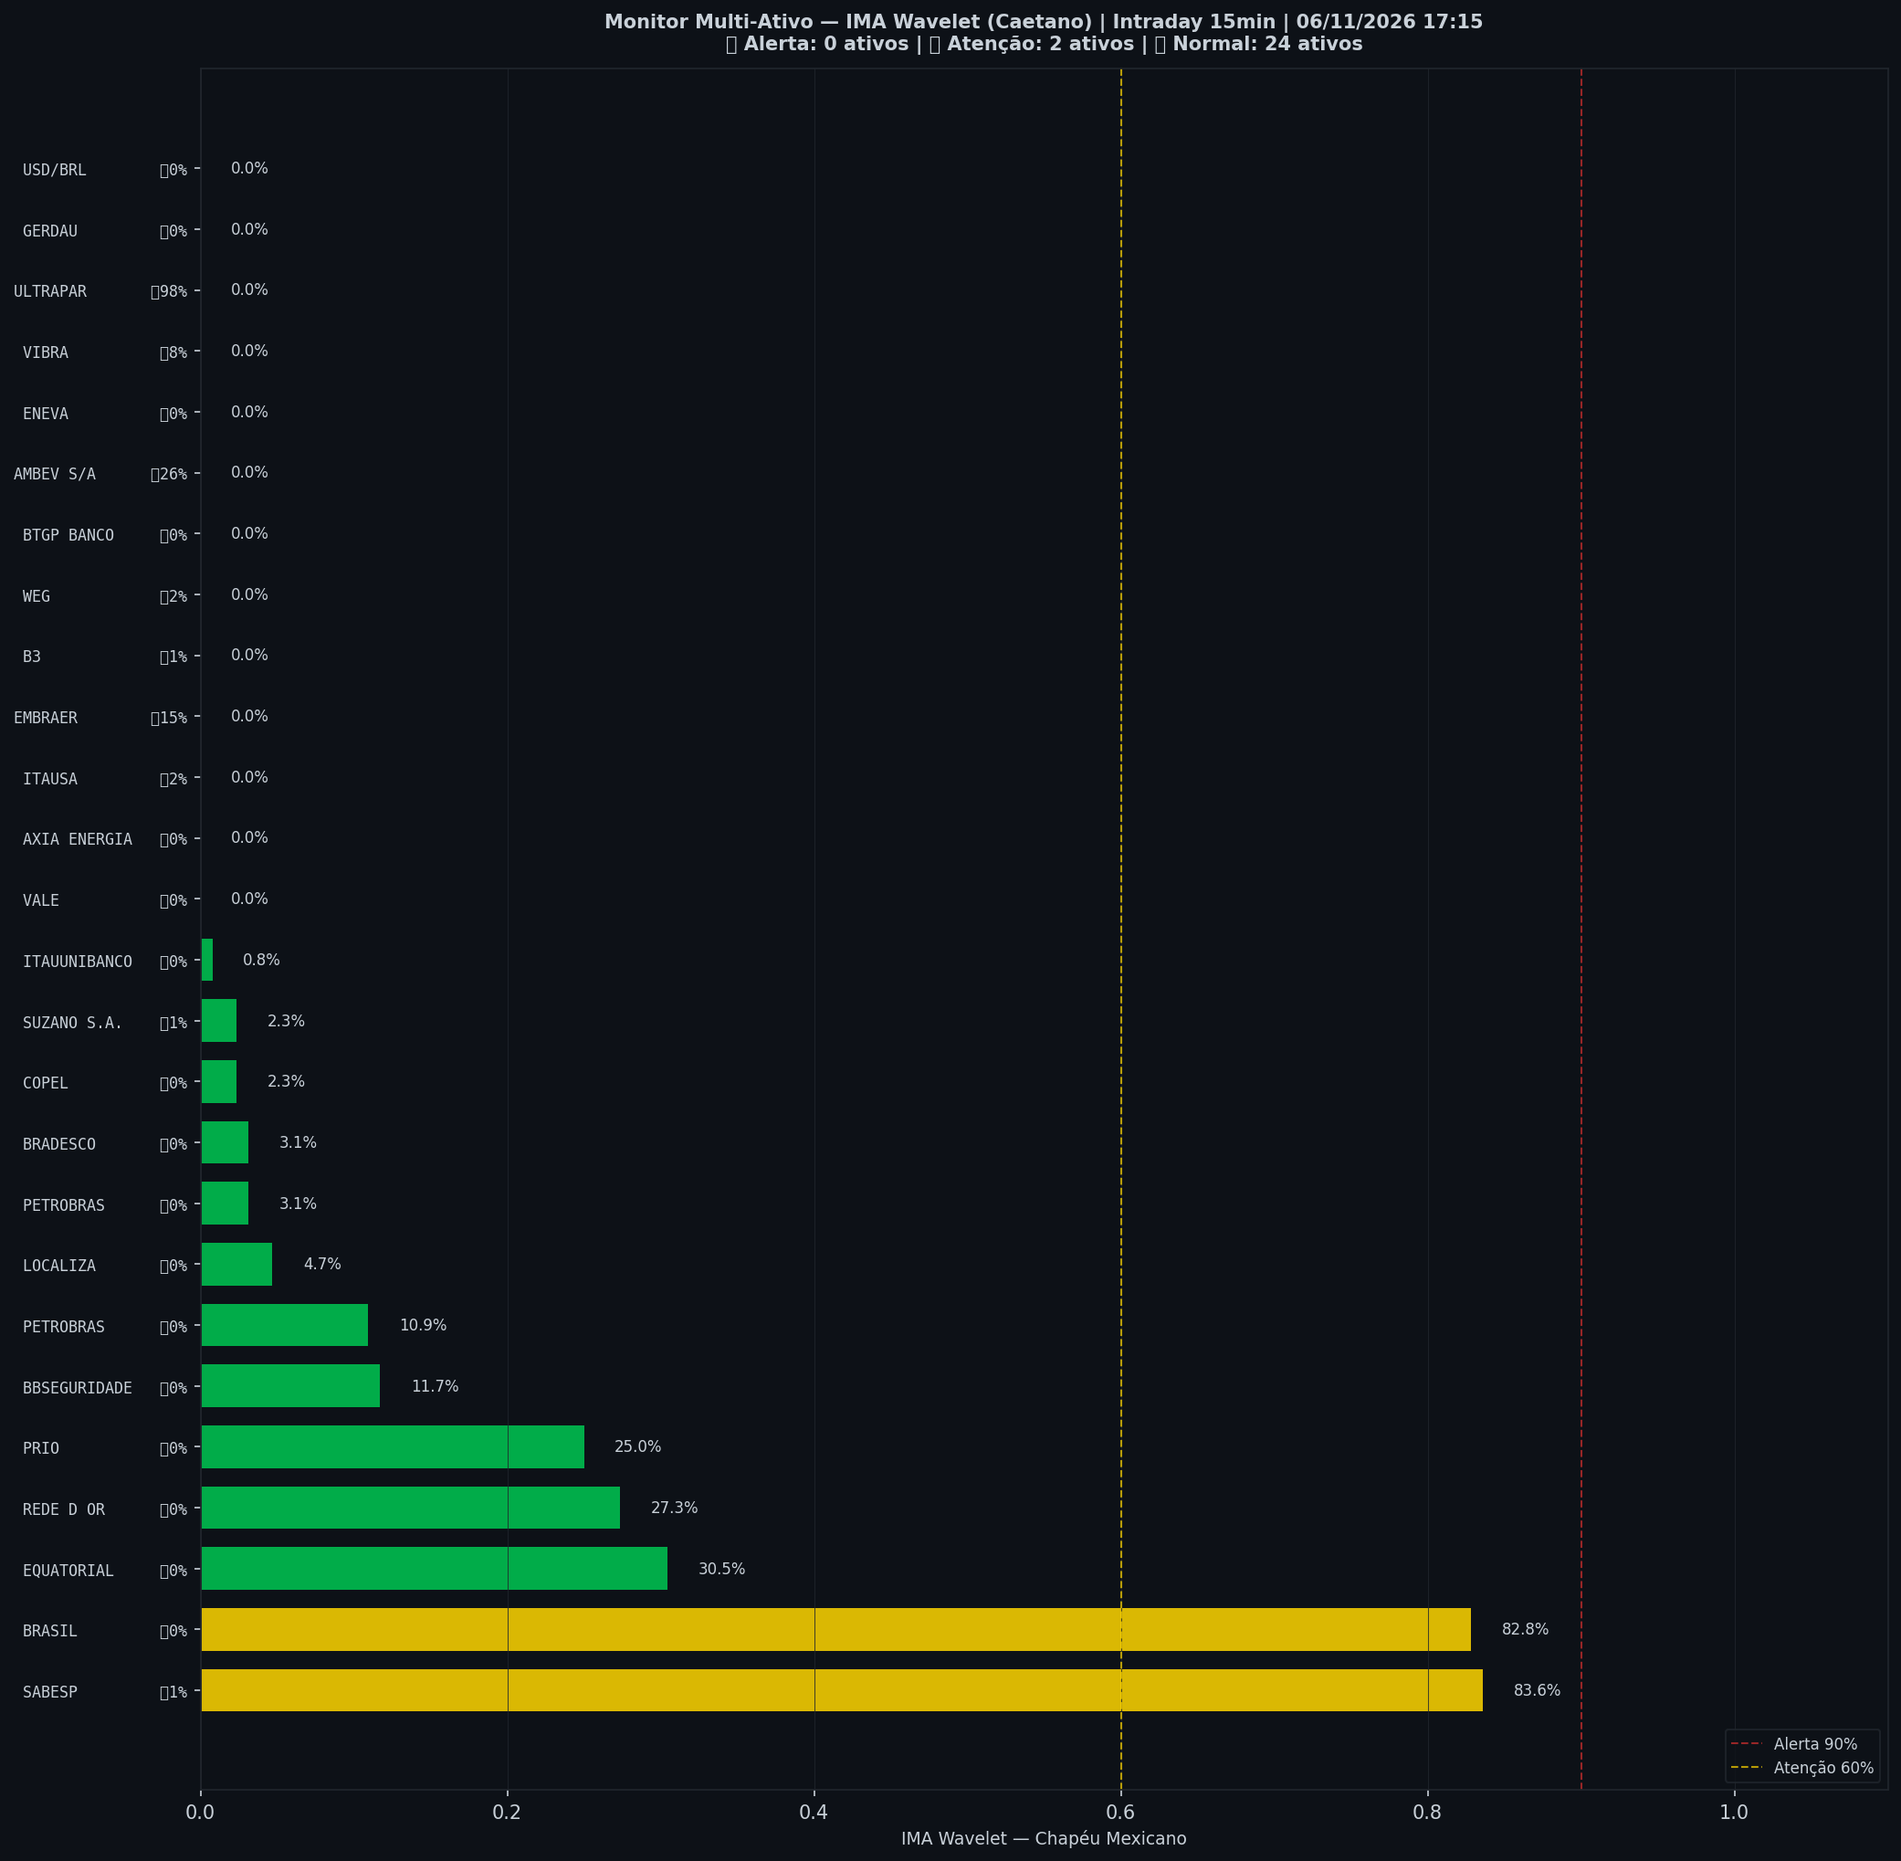
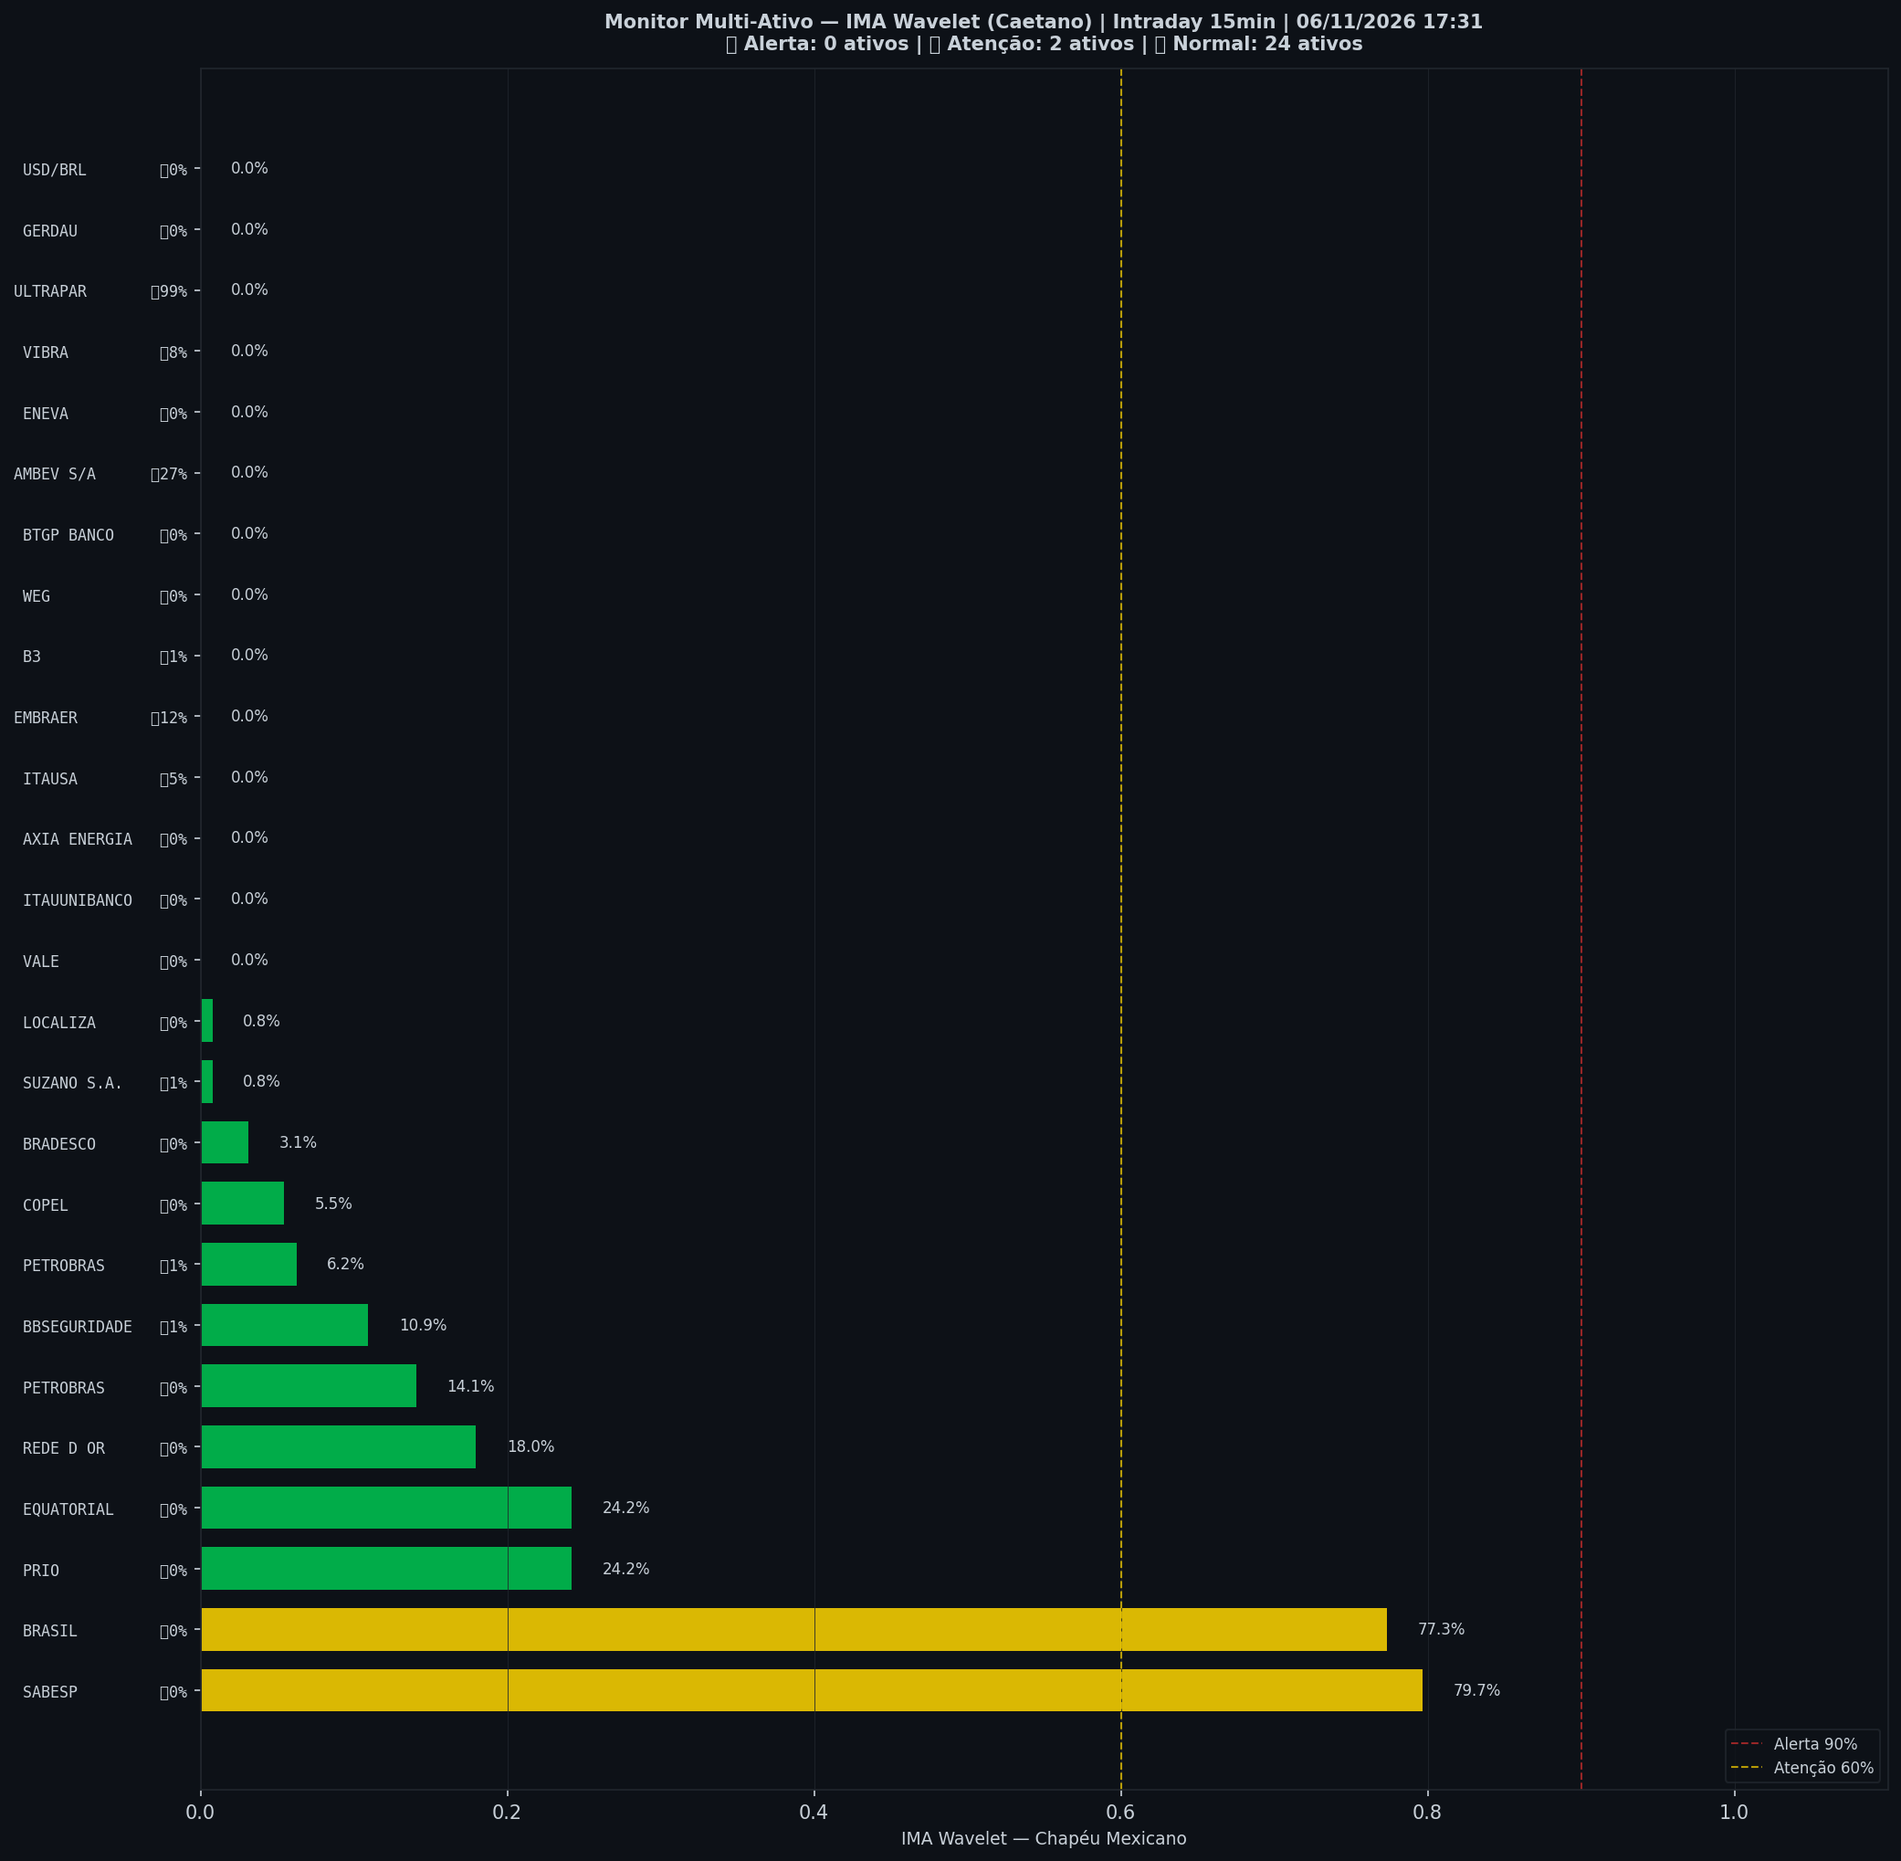
🤖 Auto: Sinal 06/11/2026 17:31

diff --git a/content/intraday/2026-11-06.md b/content/intraday/2026-11-06.md
@@ -1,10 +1,10 @@
 ---
-title: "🟢 Intraday 06/11/2026 17:00 BRT — VERDE"
+title: "🟢 Intraday 06/11/2026 17:15 BRT — VERDE"
 date: 2026-11-06
 tags: [intraday]
 ---
 
-> [!success] Onde o mercado está agora (06/11 17:00, candles de 15 min): **🟢 Calmo**
+> [!success] Onde o mercado está agora (06/11 17:15, candles de 15 min): **🟢 Calmo**
 > `Pânico ◀──────────●──────────▶ Euforia`
 >
 > O Ibovespa está dentro da sua faixa normal, sem excesso para cima nem para baixo.
@@ -20,8 +20,8 @@ tags: [intraday]
 > | 📍 **Sinais** | hoje: nenhum sinal | [abrir](sinais-topo-fundo/) |
 > | 🧪 **Placar ao vivo** | 1 operação(ões), 0 com lucro, soma -0,8% | [abrir](operacoes/) |
 
-> [!success] IMA Intraday · 15 min (06/11 17:00): 🟢 **VERDE** — Risco 2% · ▼ -4 p.p. vs leitura anterior
-> `░░░░░░░░░░░░░░░░░░░░`
+> [!success] IMA Intraday · 15 min (06/11 17:15): 🟢 **VERDE** — Risco 3% · ▲ +1 p.p. vs leitura anterior
+> `█░░░░░░░░░░░░░░░░░░░`
 > Preço na faixa normal em torno da tendência.
 
 
@@ -32,13 +32,13 @@ tags: [intraday]
 >
 > *Leitura educacional baseada em 26 anos de dados, não recomendação. [Como usar](../metodologia/crise#3-como-usar-na-prática).*
 
-| Indicador — IMA Intraday · 15 min (06/11 17:00) | Valor |
+| Indicador — IMA Intraday · 15 min (06/11 17:15) | Valor |
 |---|---|
-| 🔴 ζ Topo — preço esticado acima da tendência | **2%** |
+| 🔴 ζ Topo — preço esticado acima da tendência | **3%** |
 | 🔵 ζ Fundo — preço esticado abaixo da tendência | 0% |
 | 🫧 LPPL bolha — alta super-exponencial (risco de crash) | 0% |
 | 🫧 LPPL antibolha — queda super-exponencial (risco de repique) | 0% |
-| 📊 Ibovespa | 168.434 pts |
+| 📊 Ibovespa | 168.351 pts |
 
 ![Gráfico do sinal](../graficos/sinal_intraday.png)
 
@@ -46,6 +46,7 @@ tags: [intraday]
 
 | Data | Zona | Evento | Risco | ζ Topo | ζ Fundo | LPPL |
 |---|---|---|---|---|---|---|
+| 2026-11-06 17:15 | 🟢 VERDE |  | **3%** | 3% | 0% | 0% |
 | 2026-11-06 17:00 | 🟢 VERDE |  | **2%** | 2% | 0% | 0% |
 | 2026-11-06 16:45 | 🟢 VERDE |  | **6%** | 6% | 0% | 0% |
 | 2026-11-06 16:30 | 🟢 VERDE |  | **8%** | 8% | 0% | 0% |
@@ -75,7 +76,6 @@ tags: [intraday]
 | 2026-11-06 10:30 | 🟢 VERDE |  | **1%** | 1% | 1% | 0% |
 | 2026-11-06 10:15 | 🟢 VERDE |  | **0%** | 0% | 1% | 0% |
 | 2026-11-06 10:00 | 🟢 VERDE |  | **0%** | 0% | 0% | 0% |
-| 2026-11-05 18:00 | 🟢 VERDE |  | **0%** | 0% | 0% | 0% |
 
 <small>Destaques: 🟡 ≥ 60% · 🔴 ≥ 90% (Risco e ζ Topo) · 🔵 ≥ 60% · 🔪 ≥ 90% (ζ Fundo) · 🫧 ≥ 30% · 🫧🔴 ≥ 50% (LPPL)</small>
 
@@ -84,32 +84,32 @@ tags: [intraday]
 **8% dos ativos em tensão** (2🔴 0🟡) · **1 com ζ Fundo alto** — quanto mais ativos disparam juntos, mais confiável o sinal.
 
 > [!danger] Em destaque no multi-ativo
-> 🔪 **ULTRAPAR** ζ Fundo 98% · 🟡 **SABESP** ζ Topo 84% · 🟡 **BRASIL** ζ Topo 83%
+> 🔪 **ULTRAPAR** ζ Fundo 99% · 🟡 **SABESP** ζ Topo 80% · 🟡 **BRASIL** ζ Topo 77%
 
 | Zona | Ativo | Setor | ζ Topo | ζ Fundo |
 |---|---|---|---|---|
-| 🟢 | **ULTRAPAR** | Outros | 0.0% | 🔪 **98.4%** |
-| 🔴 | **SABESP** | Saneamento | 🟡 **83.6%** | 0.8% |
-| 🔴 | **BRASIL** | Financeiro | 🟡 **82.8%** | 0.0% |
-| 🟢 | **EQUATORIAL** | Energia | 30.5% | 0.0% |
-| 🟢 | **REDE D OR** | Saúde | 27.3% | 0.0% |
-| 🟢 | **AMBEV S/A** | Consumo | 0.0% | 25.8% |
-| 🟢 | **PRIO** | Petróleo | 25.0% | 0.0% |
-| 🟢 | **EMBRAER** | Outros | 0.0% | 14.8% |
-| 🟢 | **BBSEGURIDADE** | Financeiro | 11.7% | 0.0% |
-| 🟢 | **PETROBRAS** | Petróleo | 10.9% | 0.0% |
+| 🟢 | **ULTRAPAR** | Outros | 0.0% | 🔪 **99.2%** |
+| 🔴 | **SABESP** | Saneamento | 🟡 **79.7%** | 0.0% |
+| 🔴 | **BRASIL** | Financeiro | 🟡 **77.3%** | 0.0% |
+| 🟢 | **AMBEV S/A** | Consumo | 0.0% | 27.3% |
+| 🟢 | **PRIO** | Petróleo | 24.2% | 0.0% |
+| 🟢 | **EQUATORIAL** | Energia | 24.2% | 0.0% |
+| 🟢 | **REDE D OR** | Saúde | 18.0% | 0.0% |
+| 🟢 | **PETROBRAS** | Petróleo | 14.1% | 0.0% |
+| 🟢 | **EMBRAER** | Outros | 0.0% | 12.5% |
+| 🟢 | **BBSEGURIDADE** | Financeiro | 10.9% | 0.8% |
 | 🟢 | **VIBRA** | Energia | 0.0% | 7.8% |
-| 🟢 | **LOCALIZA** | Aluguel | 4.7% | 0.0% |
-| 🟢 | **PETROBRAS** | Petróleo | 3.1% | 0.0% |
+| 🟢 | **PETROBRAS** | Petróleo | 6.2% | 0.8% |
+| 🟢 | **ITAUSA** | Financeiro | 0.0% | 5.5% |
+| 🟢 | **COPEL** | Energia | 5.5% | 0.0% |
 | 🟢 | **BRADESCO** | Financeiro | 3.1% | 0.0% |
-| 🟢 | **COPEL** | Energia | 2.3% | 0.0% |
-| 🟢 | **SUZANO S.A.** | Papel/Celulose | 2.3% | 0.8% |
-| 🟢 | **ITAUSA** | Financeiro | 0.0% | 1.6% |
-| 🟢 | **WEG** | Industrial | 0.0% | 1.6% |
-| 🟢 | **ITAUUNIBANCO** | Financeiro | 0.8% | 0.0% |
 | 🟢 | **B3** | Financeiro | 0.0% | 0.8% |
+| 🟢 | **SUZANO S.A.** | Papel/Celulose | 0.8% | 0.8% |
+| 🟢 | **LOCALIZA** | Aluguel | 0.8% | 0.0% |
 | 🟢 | **VALE** | Mineração | 0.0% | 0.0% |
+| 🟢 | **ITAUUNIBANCO** | Financeiro | 0.0% | 0.0% |
 | 🟢 | **AXIA ENERGIA** | Energia | 0.0% | 0.0% |
+| 🟢 | **WEG** | Industrial | 0.0% | 0.0% |
 | 🟢 | **BTGP BANCO** | Financeiro | 0.0% | 0.0% |
 | 🟢 | **ENEVA** | Energia | 0.0% | 0.0% |
 | 🟢 | **GERDAU** | Siderurgia | 0.0% | 0.0% |
@@ -119,7 +119,7 @@ tags: [intraday]
 
 ![Monitor multi-ativo](../graficos/multi_intraday.png)
 
-*Página atualizada em 06/11/2026 17:15 BRT (leitura da barra de 2026-11-06 17:00 BRT).*
+*Página atualizada em 06/11/2026 17:31 BRT (leitura da barra de 2026-11-06 17:15 BRT).*
 
 > [!warning] O que este indicador não faz
 > Medido em 5 anos de Ibovespa, o ζ **não antecipa** topos nem fundos: a capacidade de separar o que sobe do que cai ficou em 0,49–0,52, e 0,50 é moeda jogada ao ar. Ele descreve o estado de agora; não é aviso do que vem. As zonas verde/amarelo/vermelho continuam na página como descrição desse estado — **não as use como sinal de entrada ou saída**.

diff --git a/content/index.md b/content/index.md
@@ -6,9 +6,9 @@ tags: [home]
 
 **As ondas do mercado, explicadas.** Leitura do Ibovespa com estatística de 26 anos, baseada no trabalho de pesquisadores e traders reconhecidos e adaptada por Jarbas Daniel da Costa.
 
-*Última atualização: 06/11/2026 17:15 BRT · Intraday 15min*
+*Última atualização: 06/11/2026 17:31 BRT · Intraday 15min*
 
-> [!success] Onde o mercado está agora (06/11 17:00, candles de 15 min): **🟢 Calmo**
+> [!success] Onde o mercado está agora (06/11 17:15, candles de 15 min): **🟢 Calmo**
 > `Pânico ◀──────────●──────────▶ Euforia`
 >
 > O Ibovespa está dentro da sua faixa normal, sem excesso para cima nem para baixo.
@@ -20,7 +20,7 @@ tags: [home]
 
 | Módulo | Agora | |
 |---|---|---|
-| 🌊 **Sinal de Crise** | 🟢 VERDE · 🟢 calmo · ζ Topo 2% | [relatório](intraday/2026-11-06) |
+| 🌊 **Sinal de Crise** | 🟢 VERDE · 🟢 calmo · ζ Topo 3% | [relatório](intraday/2026-11-06) |
 | 📈 **Tendência MME9** | Diário — fora<br>Semanal — fora | [abrir](operacoes/tendencia) |
 | 🎯 **Entradas do método** | ⏳ aguardando: Diário · Nadaraya, Diário · Semáforo N3 após ζ Fundo | [abrir](operacoes/entradas) |
 | 📍 **Sinais** | hoje: nenhum sinal | [abrir](sinais-topo-fundo/) |
@@ -54,18 +54,18 @@ tags: [home]
 > *Leitura educacional baseada em 26 anos de dados, não recomendação. [Como usar](metodologia/crise#3-como-usar-na-prática).*
 
 > [!info]- 🌊 Detalhes do Sinal de Crise (indicadores e últimos 7 pregões)
-> > [!success] IMA Intraday · 15 min (06/11 17:00): 🟢 **VERDE** — Risco 2% · ▼ -4 p.p. vs leitura anterior
-> > `░░░░░░░░░░░░░░░░░░░░`
+> > [!success] IMA Intraday · 15 min (06/11 17:15): 🟢 **VERDE** — Risco 3% · ▲ +1 p.p. vs leitura anterior
+> > `█░░░░░░░░░░░░░░░░░░░`
 > > Preço na faixa normal em torno da tendência.
 >
 >
-> | Indicador — IMA Intraday · 15 min (06/11 17:00) | Valor |
+> | Indicador — IMA Intraday · 15 min (06/11 17:15) | Valor |
 > |---|---|
-> | 🔴 ζ Topo — preço esticado acima da tendência | **2%** |
+> | 🔴 ζ Topo — preço esticado acima da tendência | **3%** |
 > | 🔵 ζ Fundo — preço esticado abaixo da tendência | 0% |
 > | 🫧 LPPL bolha — alta super-exponencial (risco de crash) | 0% |
 > | 🫧 LPPL antibolha — queda super-exponencial (risco de repique) | 0% |
-> | 📊 Ibovespa | 168.434 pts |
+> | 📊 Ibovespa | 168.351 pts |
 >
 > **Multi-ativo:** 8% em tensão (2🔴 0🟡 de 26 ativos)
 >
@@ -73,8 +73,7 @@ tags: [home]
 >
 > | Data | Zona | Risco | ζ Topo | ζ Fundo | LPPL |
 > |---|---|---|---|---|---|
-> | [06/11/2026](intraday/2026-11-06) | 🟢 VERDE | **2%** | 2% | 0% | 0% |
-> | [05/11/2026](intraday/2026-11-05) | 🟢 VERDE | **0%** | 0% | 0% | 0% |
+> | [06/11/2026](intraday/2026-11-06) | 🟢 VERDE | **3%** | 3% | 0% | 0% |
 >
 > <small>Destaques: 🟡 ≥ 60% · 🔴 ≥ 90% (Risco e ζ Topo) · 🔵 ≥ 60% · 🔪 ≥ 90% (ζ Fundo) · 🫧 ≥ 30% · 🫧🔴 ≥ 50% (LPPL)</small>
 >

diff --git a/content/operacoes/entradas.md b/content/operacoes/entradas.md
@@ -31,7 +31,7 @@ description: "Compra depois de um sinal de fundo: Nadaraya no diário, semáforo
 > | Diário · Semáforo N3 após ζ Fundo | 07/07/26 a 172.021 | 10/08/26 a 172.021 | **+0,0%** | stop no preço de entrada |
 > | H4 · Semáforo N2 | 12/06/26 14h a 171.134 | 15/06/26 14h a 171.134 | **+0,0%** | stop no preço de entrada |
 >
-> <small>Atualizado 05/11 19:00 · checado no pregão às 17:15. Nota: ✅ passou no teste fora da amostra (walk-forward 2008–2026) · 🧪 em teste (H4, com aviso no Telegram) ou em observação (ζ, sem aviso) · 🧪 na tabela = operação do teste ao vivo.</small>
+> <small>Atualizado 05/11 19:00 · checado no pregão às 17:30. Nota: ✅ passou no teste fora da amostra (walk-forward 2008–2026) · 🧪 em teste (H4, com aviso no Telegram) ou em observação (ζ, sem aviso) · 🧪 na tabela = operação do teste ao vivo.</small>
 >
 > *Regras: depois de um sinal de fundo, o Diário entra quando o Nadaraya vira para cima; o Semanal e o H4 entram quando um fundo do semáforo fica fixo. Stop e saída de cada regra na [metodologia](metodologia/regras-de-operacao#entradas-do-método). Nenhuma regra de venda passou no teste. Os números do histórico têm viés de escolha (overfitting); o placar ao vivo é o que vale. Leitura educacional do método, não recomendação.*
 

diff --git a/content/historico.md b/content/historico.md
@@ -5,7 +5,7 @@ tags: [historico]
 
 # 📜 Histórico de leituras (v5)
 
-**2.205 leituras** desde 2026-07-03. Na página ficam os últimos 3 dias leitura por leitura e o resumo de cada dia anterior; o registro inteiro está no arquivo para baixar.
+**2.206 leituras** desde 2026-07-03. Na página ficam os últimos 3 dias leitura por leitura e o resumo de cada dia anterior; o registro inteiro está no arquivo para baixar.
 
 [**Baixar o histórico completo**](historico-completo.csv) (97 KB · abre no Excel e no LibreOffice)
 
@@ -16,6 +16,7 @@ tags: [historico]
 
 | Data | Modo | Zona | Risco | IMA | LPPL |
 |---|---|---|---|---|---|
+| 2026-11-06 17:15 | intraday | 🟢 VERDE | 3% | 3% | 0% |
 | 2026-11-06 17:00 | intraday | 🟢 VERDE | 2% | 2% | 0% |
 | 2026-11-06 16:45 | intraday | 🟢 VERDE | 6% | 6% | 0% |
 | 2026-11-06 16:30 | intraday | 🟢 VERDE | 8% | 8% | 0% |

diff --git a/content/operacoes/ranking.md b/content/operacoes/ranking.md
@@ -5,7 +5,7 @@ tags: [operacoes]
 description: "As regras de compra do site ordenadas pelo resultado, com treino, teste e placar ao vivo"
 ---
 
-*Atualizado 06/11/2026 17:15 · histórico simulado com as regras congeladas em 23/10/2026 + placar ao vivo.*
+*Atualizado 06/11/2026 17:31 · histórico simulado com as regras congeladas em 23/10/2026 + placar ao vivo.*
 
 As regras de compra do site, **da que mais rendeu para a que menos rendeu**. O resultado é por operação, no índice à vista, sem custos e sem juros compostos (a soma é só a soma das operações). **Treino** = entradas de 2001 a 2013 e **teste** = 2014 em diante: uma regra só é confiável se ganhou nos dois. O único resultado sem nenhum ajuste ao histórico é o **placar ao vivo**.
 

diff --git a/content/linha-do-tempo/index.md b/content/linha-do-tempo/index.md
@@ -5,7 +5,7 @@ description: "Todo sinal, ordem, stop e aviso do Pêndulo de Mercado, do mais re
 tags: [eventos]
 ---
 
-*Atualizada 06/11/2026 17:15 BRT · a cada 15 min no pregão e às 19h.*
+*Atualizada 06/11/2026 17:31 BRT · a cada 15 min no pregão e às 19h.*
 
 Tudo o que o sistema fez ou detectou, **do mais recente para o mais antigo**: sinais de topo e fundo, ordens de compra e de venda armadas, compras, vendas, stops, avisos de 🚨 preço perto do nível e mudanças da Crise. Os **últimos 7 dias** ficam abertos; o resto, por **ano → mês → dia**.
 
